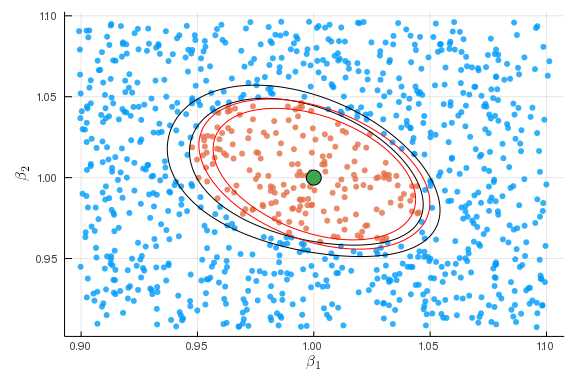
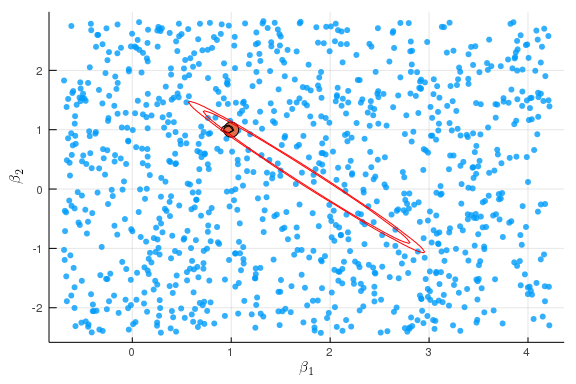
Deployed 683b70d with MkDocs version: 1.0.4

Changed region(s): [[0.0, 0.0312, 0.9688, 0.9688]]

diff --git a/identificationRobustInference/index.html b/identificationRobustInference/index.html
@@ -249,7 +249,7 @@ where
 $\hat{\theta}_{(1)}$ is the first estimate. </p>
 <p>Third, it computes the continuous updating estimator, which uses
 $AR(\theta)$ as the objective function ( $W$ is &ldquo;continuously updated&rdquo;
-to be $\widehat{Var}( \nabla g_i(\theta))$ ).</p>
+to be $\widehat{Var}( g_i(\theta))$ ).</p>
 <pre><code class="julia">using Optim, ForwardDiff, LinearAlgebra, Distributions
 function simulate_ivshare(n,β,γ,ρ)
   z = randn(n, size(γ)[1])
@@ -347,7 +347,8 @@ display(Vcue)
 
 <p>Now we compare confidence regions based on the Wald test, and from
 inverting the AR statistic.</p>
-<pre><code class="julia">using Plots
+<pre><code class="julia">using Plots, LaTeXStrings
+Plots.gr()
 function plot_cr(β,V, AR)
   lb = β - sqrt.(diag(V))*5
   ub = β + sqrt.(diag(V))*5
@@ -373,18 +374,10 @@ function plot_cr(β,V, AR)
            label=&quot;Wald CI&quot;, c=cgrad([:red,:red], [0.0,1.0]),
            legend=false)
 end
+plot_cr(βcue,Vcue, ar_ivshare)
 </code></pre>
 
-<pre><code>Error: LoadError: UndefVarError: @L_str not defined
-in expression starting at none:11
-</code></pre>
-
-<pre><code class="julia">plot_cr(βcue,Vcue, ar_ivshare)
-</code></pre>
-
-<pre><code>Error: UndefVarError: plot_cr not defined
-</code></pre>
-
+<p><img alt="" src="../figures/identificationRobustInference_4_1.png" /></p>
 <p>The two confidence regions above are not too different because the
 simulated data was strongly identified. Let&rsquo;s see what happens when we
 change the simulation to have weaker identification.</p>
@@ -398,7 +391,7 @@ optcue = optimize(ar_ivshare,
 @show βcue = optcue.minimizer
 </code></pre>
 
-<pre><code>βcue = optcue.minimizer = [1.761971616736012, 0.20175551308470746]
+<pre><code>βcue = optcue.minimizer = [1.1530818384403074, 0.8267418916242202]
 </code></pre>
 
 <pre><code class="julia">Vcue = gmmVar(βcue,β-&gt;gi_ivshare(β,y,x,z),inv(cov(gi_ivshare(βcue,y,x,z))))
@@ -406,16 +399,14 @@ display(Vcue)
 </code></pre>
 
 <pre><code>2×2 Array{Float64,2}:
-  0.241376  -0.255958
- -0.255958   0.276024
+  0.138224  -0.123079
+ -0.123079   0.112012
 </code></pre>
 
 <pre><code class="julia">plot_cr(βcue,Vcue, ar_ivshare)
 </code></pre>
 
-<pre><code>Error: UndefVarError: plot_cr not defined
-</code></pre>
-
+<p><img alt="" src="../figures/identificationRobustInference_5_1.png" /></p>
 <p>Now the confidence regions are dramatically different. Does either one
 have correct coverage? Let&rsquo;s simulate to find the size of the AR and
 Wald tests of $H_0 : \beta = \beta_0$</p>
@@ -733,7 +724,7 @@ and LM tests are more powerful than the AR test. </p>
 variables roughly follows the notation of Andrews and
 Guggenberge(2017) <sup id="fnref2:8"><a class="footnote-ref" href="#fn:8">8</a></sup>.</p>
 <pre><code class="julia">using ForwardDiff, Plots, Optim
-
+Plots.gr()
 function statparts(θ,gi)
   # compute common components of klm, rk, &amp; clr stats
   # follows notation of Andrews &amp; Guggenberger 2017, section 3.1
@@ -817,8 +808,7 @@ end
 end
 </code></pre>
 
-<pre><code>Error: LoadError: UndefVarError: @L_str not defined
-in expression starting at none:5
+<pre><code>plot_cr (generic function with 2 methods)
 </code></pre>
 
 <p>Here&rsquo;s what the confidence regions look like when identification is

diff --git a/index.html b/index.html
@@ -408,5 +408,5 @@
 
 <!--
 MkDocs version : 1.0.4
-Build Date UTC : 2019-10-28 03:55:28
+Build Date UTC : 2019-10-28 03:57:54
 -->
